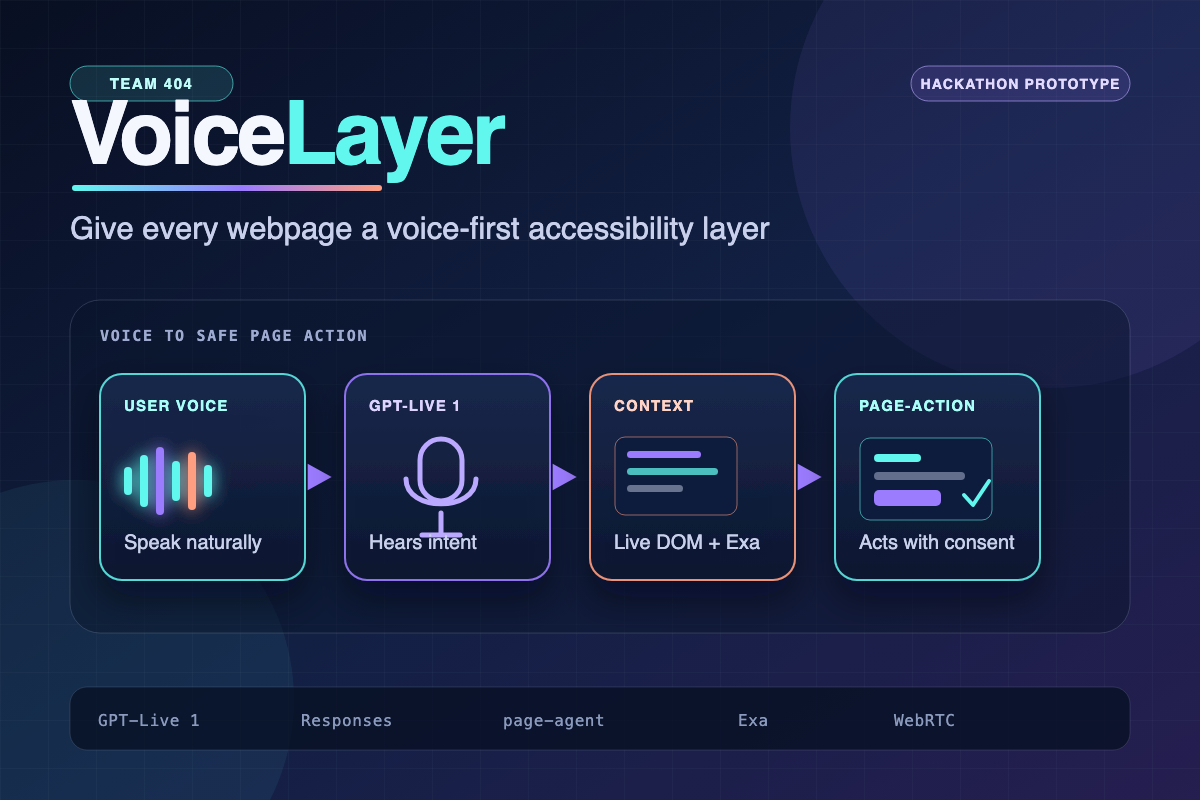
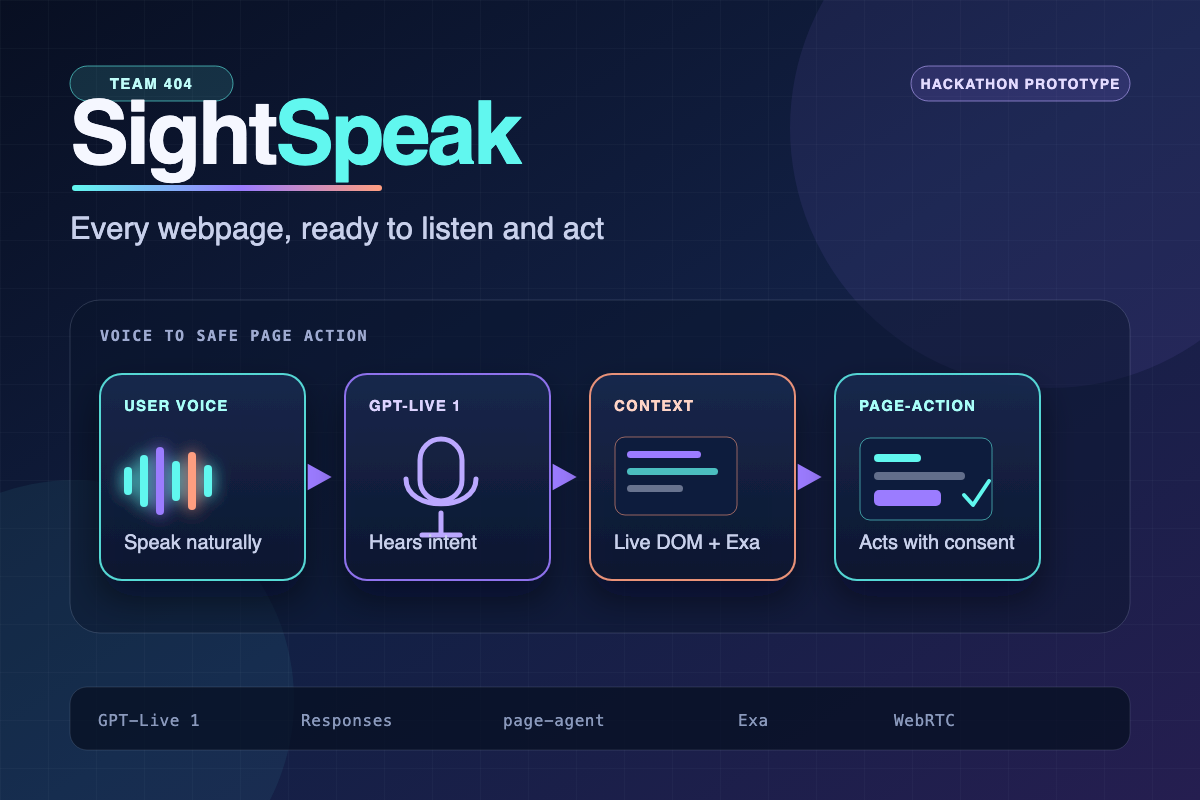
Correct SightSpeak thumbnail branding

Changed region(s): [[0.0617, 0.125, 0.6475, 0.3125]]

diff --git a/README.md b/README.md
@@ -1,10 +1,10 @@
 # AI Tinkerers Abu Dhabi — Team 404
 
 <p align="center">
-  <img src="assets/voicelayer-thumbnail.png" alt="VoiceLayer voice-to-safe-page-action flow" width="1200">
+  <img src="assets/voicelayer-thumbnail.png" alt="SightSpeak voice-to-safe-page-action flow" width="1200">
 </p>
 
-VoiceLayer is a voice-first accessibility layer that can be added to a web page. A user can speak to read the page, scroll, click, fill forms, or search the live web.
+SightSpeak is a voice-first accessibility layer that can be added to a web page. The working prototype, VoiceLayer, lets a user speak to read the page, scroll, click, fill forms, or search the live web.
 
 ## Links
 
